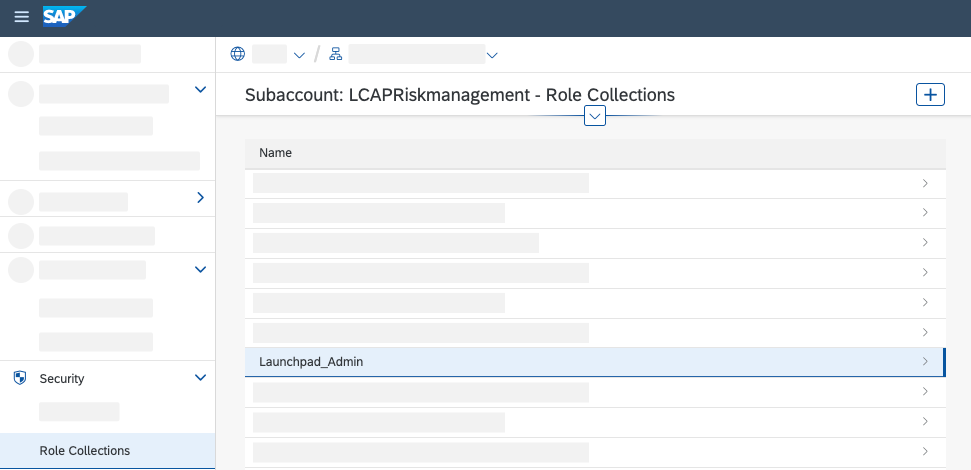
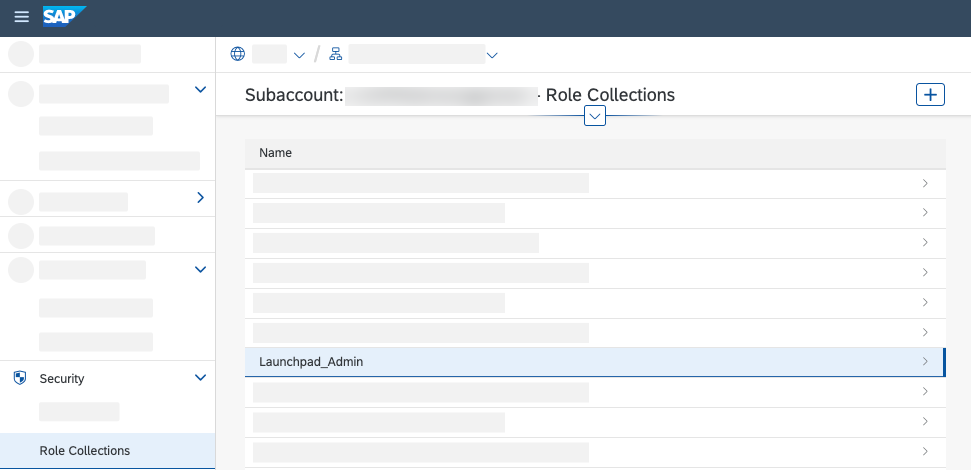
added gitignore and corrected screenshot

Changed region(s): [[0.3399, 0.1787, 0.5561, 0.2383]]

diff --git a/create-application/develop/README.md b/create-application/develop/README.md
@@ -18,9 +18,9 @@ Open **SAP AppGyver Application Development** link if you have it already bookma
 
      <img src="./images/openAppGyver.png">
 
-  4. You would be prompted with a log in screen of either default Identity Provider or custom Identity Provider depending on what you have configured.
+ 4. You would be prompted with a log in screen of either default Identity Provider or custom Identity Provider depending on what you have configured.
 
-  5. Log in to the Application using your default/custom Identity Provider credentials.
+ 5. Log in to the Application using your default/custom Identity Provider credentials.
 
 ## Create an Application Using SAP AppGyver
 

diff --git a/README.md b/README.md
@@ -5,7 +5,7 @@ The main focus of this mission is to develop a custom UI application, which cons
 
 We will create a simple custom UI application using no-code tool **SAP AppGyver**, push the code to the HTML5 repository and show different options on how to expose this application - as a stand-alone or with the different SAP Launchpads environments.
 
-You can find this scenario as a mission in [SAP Discovery Center](https://discovery-center.cloud.sap/missiondetail/4024/4228/)
+You can find this scenario as a mission in [SAP Discovery Center](https://discovery-center.cloud.sap/missiondetail/4024/4228/).
 
 ## Business Scenario
 
